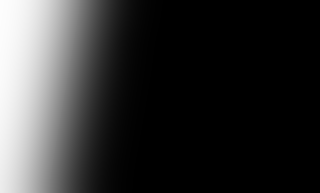
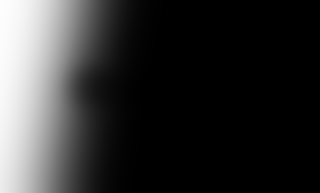
BTS What We Do 02: Zach whole, with a 37ch copy like 01, 03, 04
Release 42 follow-up (owner): "Rework the subtext so that more of Zach
is in the picture." From 1280px only; phones and anything below 1280
are unchanged, and phase 2 stays off. Still a MOCKUP until the owner's
Go.

- The 02 copy is now 37ch ("Spots built on one strong idea. Shot in a
  single production block, so the cost lands once.", same words). It
  ends at about x 625 at 1440, matching 01, 03 and 04.
- bts07 extends left: the box starts at 560 (was 621), framed from the
  top. New story pools keep Zach's head, ear, jaw and the shoulder with
  the Easyrig strap solid; the RED stays solid.
- The divider on the photo side is 360px (was 420), so it still fades
  out before the photo.
- The strip fix stays.
- layout.json re-measured and 02's mask rebuilt.

Checks:
- Edge check: 0 hard edges and 0 straight feathers on every mask.
- line42.mjs: 02 PASS at 1280, 1440 and 1920 (no old border; photo
  alpha 0.000 under the drawn divider).
- Alpha 0.000 under all type; at most 0.047 at 24px out (02).
- No BTS request at 1279.

Claude-Session: https://claude.ai/code/session_01ToX74WXy7pcyTTtmuot5ru

Changed region(s): [[0.2188, 0.342, 0.3125, 0.5285]]

diff --git a/build_site.py b/build_site.py
@@ -1000,13 +1000,13 @@ CSS = """<style>
   @media(min-width:1280px){/*wwd-p2*/
     /* What We Do 01, 03, 04 (release 42, owner): a 37ch copy measure, so the photo can show the
        people beside it (the owner in 01, Seth in 03, the RED rig in 04) */
-    #wwd-social .wwd-copy,#wwd-brand .wwd-copy,#wwd-podcast .wwd-copy{max-width:37ch;}
+    #wwd-social .wwd-copy,#wwd-commercial .wwd-copy,#wwd-brand .wwd-copy,#wwd-podcast .wwd-copy{max-width:37ch;}
     /* 02 to 04: the photo rises through the gap above its block, so the divider fades out just
        before it on the photo's side (the spacing is unchanged) */
     section.wwd .wwd-block + .wwd-block{position:relative;border-top:0;padding-top:calc(var(--s7) + 1px);}
     section.wwd .wwd-block + .wwd-block::before{content:"";position:absolute;top:0;left:0;height:1px;
       width:var(--wwd-line,100%);background:linear-gradient(to right,var(--line) calc(100% - 72px),transparent);}
-    #wwd-commercial{--wwd-line:420px;}#wwd-brand,#wwd-podcast{--wwd-line:360px;}}
+    #wwd-commercial,#wwd-brand,#wwd-podcast{--wwd-line:360px;}}
   /* 01 from 1680px: the wider box crops the photo vertically; frame higher so the camera
      operator's face stays in, with the owner and his phone */
   @media(min-width:1680px){section#what-we-do #wwd-social .wwd-head > .bts img{object-position:0% 50%;}}
@@ -3673,7 +3673,8 @@ BTS_POOLS = {
     "wwd01": ((1080, 1150, 240, 240), (1140, 480, 280, 220), (1840, 900, 320, 580), (690, 560, 420, 520),
               (450, 1050, 400, 470)),
     "wwd01m": ((1080, 1140, 260, 240), (1800, 760, 300, 420)),
-    "wwd02": ((990, 330, 280, 320), (1180, 760, 400, 470), (900, 1250, 320, 240), (1980, 900, 320, 380)),
+    "wwd02": ((990, 330, 280, 320), (1180, 760, 400, 470), (900, 1250, 320, 240), (1980, 900, 320, 380),
+              (1000, 330, 320, 380), (700, 650, 340, 330)),
     "wwd02m": ((990, 330, 260, 300), (1360, 400, 240, 240)),
     "wwd03": ((1440, 850, 220, 280), (1480, 920, 160, 130), (1600, 600, 280, 280), (480, 760, 480, 760)),
     "wwd03m": ((1440, 800, 200, 240), (1480, 920, 150, 120)),
@@ -3900,7 +3901,7 @@ BTS_BOX = {
     # 01 starts at 519: the largest scale that keeps the phone solid past the copy's clearance
     # 01: the owner (the curly-haired phone shooter) whole, his head, back and phone; 37ch copy
     "wwd01": (500, "0% 52%", True),
-    "wwd02": (621, "100% 20%", True),
+    "wwd02": (560, "100% 4%", True),        # Zach (the operator) whole, head to Easyrig strap; 37ch copy
     "wwd03": (560, "100% 41%", True),       # Seth, a cofounder, as a whole figure; 37ch copy
     "wwd04": (621, "100% 45%", True),
     "foot": (880, "100% 30%", True),

diff --git a/CLAUDE.md b/CLAUDE.md
@@ -1367,9 +1367,11 @@ which every change must pass:
       (`.hero-pkg .hl{nowrap}`), and the lede is 45ch. The photo moves right (box at 650,
       left-aligned) so the crew member's back is solid. Below 1280px the page is unchanged.
   - **Owner insert (release 42):**
-    - **The people are named.** The curly-haired phone shooter in bts05 is the owner, and the
-      navy-cap crew member in bts03 is Seth, a cofounder. They must read as whole, solid
-      people.
+    - **The people are named.** The curly-haired phone shooter in bts05 is the owner, the
+      navy-cap crew member in bts03 is Seth, a cofounder, and the operator in bts07 is Zach.
+      They must read as whole, solid people.
+    - **What We Do 02 from 1280px:** a 37ch copy as well, and the box from 560, so Zach's head,
+      ear, jaw and Easyrig strap are solid with the RED.
     - **What We Do 01, 03 and 04 from 1280px:** a 37ch copy measure, so the photo reaches the
       owner's lines; the boxes start at 500 (01) and 560 (03, 04).
     - **01 from 1680px:** a wider crop (`wwd01w`), because the box is wider than 2:1 there.
